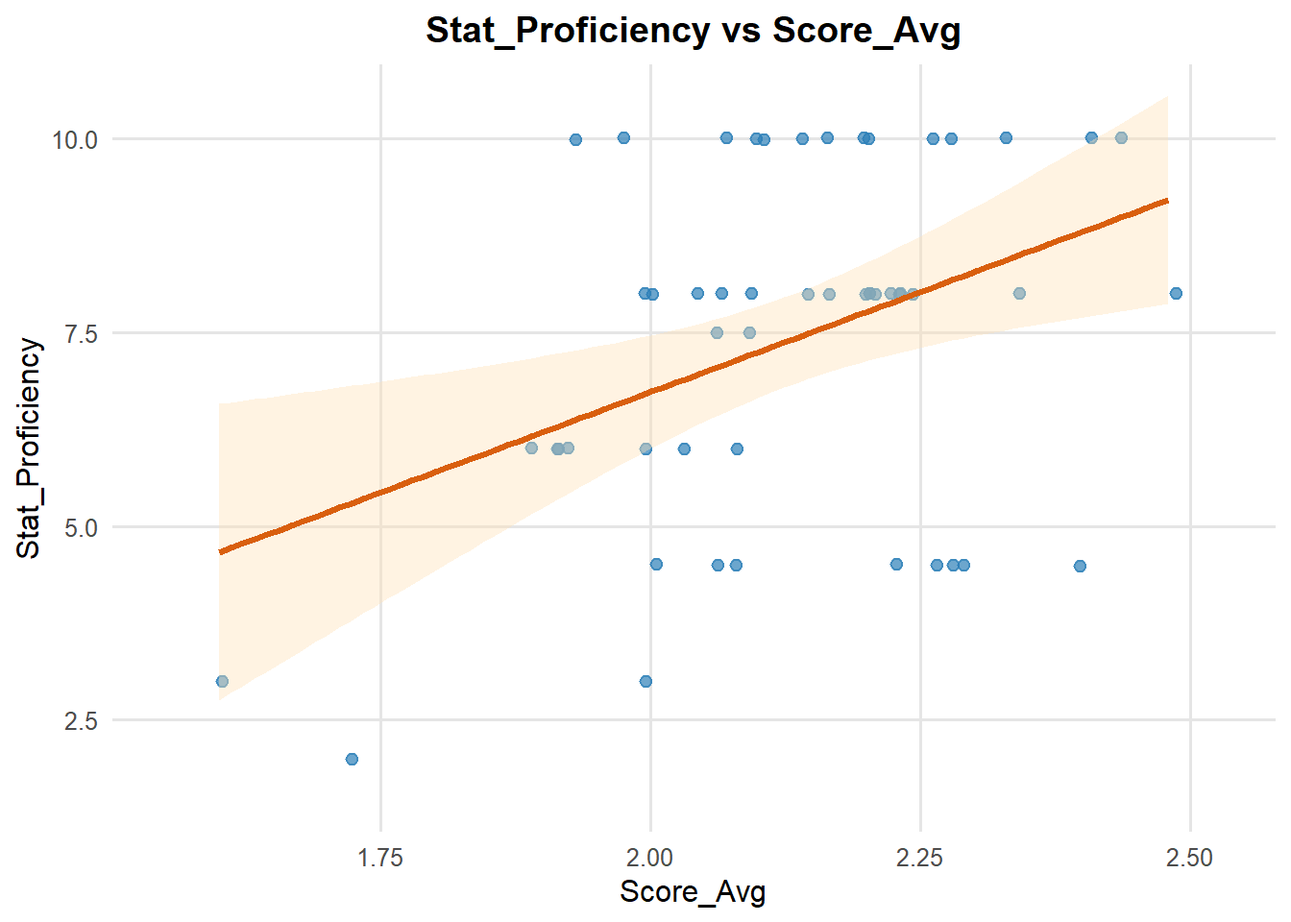
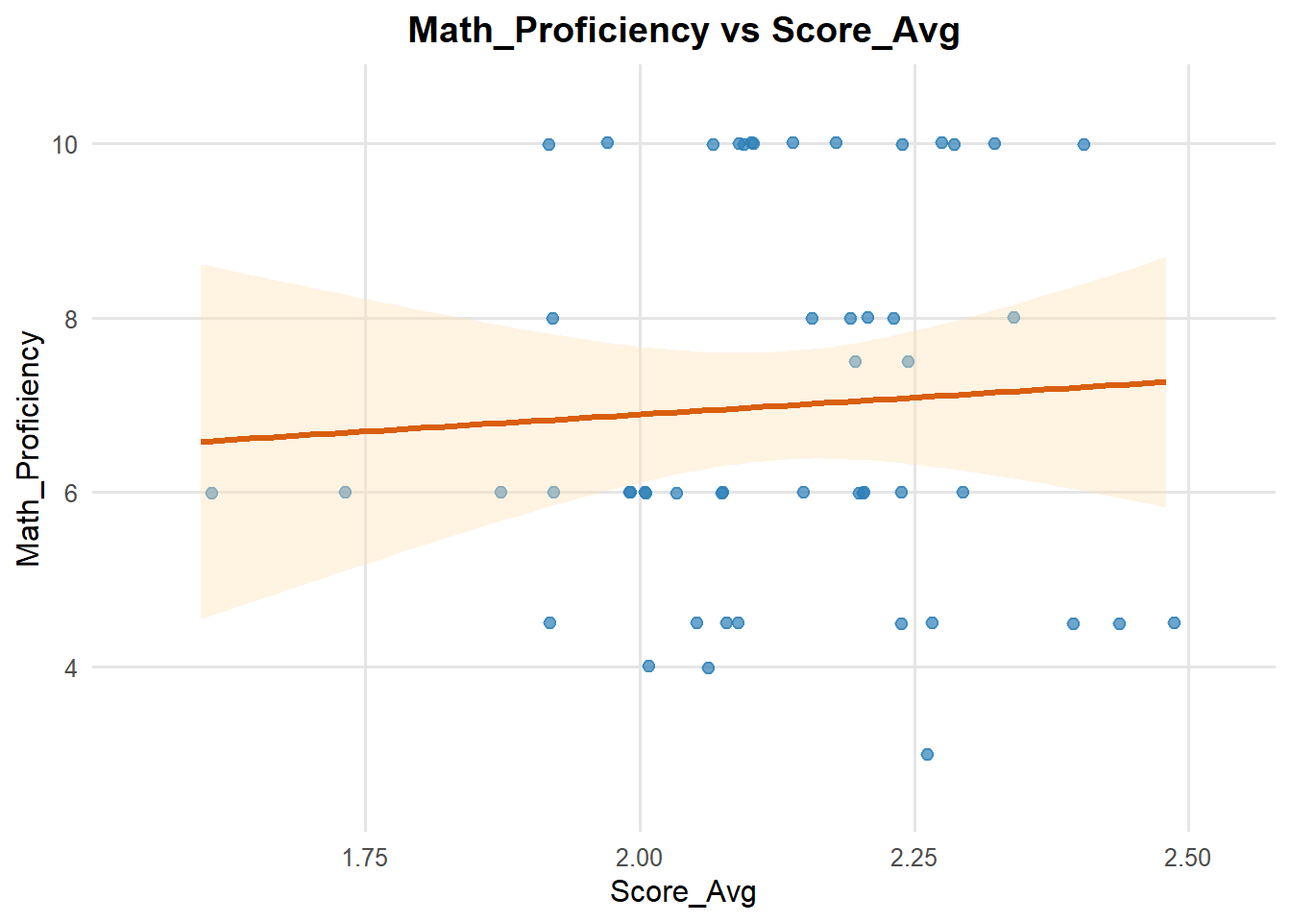
update the report, clean redundancy

diff --git a/results/report.html b/results/report.html
@@ -7,9 +7,13 @@
 <meta name="viewport" content="width=device-width, initial-scale=1.0, user-scalable=yes">
 
 <meta name="author" content="Jasper Luo">
-<meta name="dcterms.date" content="2025-10-14">
+<meta name="author" content="Jimmy Wu">
+<meta name="author" content="Ben Hurt">
+<meta name="author" content="Charles Yang">
+<meta name="author" content="Daixi Zhu">
+<meta name="dcterms.date" content="2025-10-19">
 
-<title>Analysis of class surveys</title>
+<title>Students’ Preparedness in Capstone: A Regression Analysis on the Class Survey</title>
 <style>
 code{white-space: pre-wrap;}
 span.smallcaps{font-variant: small-caps;}
@@ -110,7 +114,7 @@ window.Quarto = {
 
 <header id="title-block-header" class="quarto-title-block default">
 <div class="quarto-title">
-<h1 class="title">Analysis of class surveys</h1>
+<h1 class="title">Students’ Preparedness in Capstone: A Regression Analysis on the Class Survey</h1>
 <p class="subtitle lead">If you want a subtitle put it here</p>
 </div>
 
@@ -119,16 +123,20 @@ window.Quarto = {
 <div class="quarto-title-meta">
 
     <div>
-    <div class="quarto-title-meta-heading">Author</div>
+    <div class="quarto-title-meta-heading">Authors</div>
     <div class="quarto-title-meta-contents">
              <p>Jasper Luo </p>
+             <p>Jimmy Wu </p>
+             <p>Ben Hurt </p>
+             <p>Charles Yang </p>
+             <p>Daixi Zhu </p>
           </div>
   </div>
     
     <div>
     <div class="quarto-title-meta-heading">Updated</div>
     <div class="quarto-title-meta-contents">
-      <p class="date">October 14, 2025</p>
+      <p class="date">October 19, 2025</p>
     </div>
   </div>
   
@@ -140,14 +148,15 @@ window.Quarto = {
 </header>
 
 
-<p>Use this as a template. Keep the headers and remove all other text. Overall, your report may be quite short. When it is complete, render and then push changes to your team repository.</p>
 <section id="executive-summary" class="level2">
 <h2 class="anchored" data-anchor-id="executive-summary">Executive summary</h2>
-<p>Write a one-paragraph abstract summarizing what you did and your findings. It need not be comprehensive; try to highlight the most important or interesting outcomes.</p>
+<p>In this report, we aim to assess a student’s proficiency and specialization based on intake data for the 2025 UCSB PSTAT Capstone. This admission data includes prior coursework, domains of interest, and self-reported comfort levels in the following areas: Statistics, Programming, and Mathematics. We use this information in our report to create a scoring system for analysis. Our analysis reveals that comfort in these three areas has a positive correlation with proficiency, based on prior coursework/experience.</p>
 </section>
 <section id="data-description" class="level2">
 <h2 class="anchored" data-anchor-id="data-description">Data description</h2>
-<p>Write a brief description of the dataset. Your description should cover how data were obtained, sample characteristics, and measurements taken. It does not need to be exhaustive, but sufficiently detailed to convey a clear high-level understanding of the dataset. You can utilize bullet points or tables if you feel it would help improve clarity.</p>
+<p>Our data was obtained from the 2025 UCSB PSTAT Capstone admission/intake form. Within this form, students reported their self-reported comfort levels in statistics, programming, and mathematics. Students also reported the prior coursework they have taken in such areas and domain interests.</p>
+<p>Based on this information, we (the people working on this report) scored course difficulty from an integer scale of one to three. One represents beginner level, two represents intermediate level, and three represents advanced level. To be inclusive of a student’s self-reported comfort level, we also assigned the scores of one, one and a half, and two to respective comfort levels.</p>
+<p>Using this scoring system, we calculated each student’s proficiency by averaging the difficulty scores of their completed courses and multiplying by their comfort level score. This composite score ranges from one to ten, enabling a normalized analysis of estimated proficiency.</p>
 </section>
 <section id="questions-of-interest" class="level2">
 <h2 class="anchored" data-anchor-id="questions-of-interest">Questions of interest</h2>
@@ -198,9 +207,7 @@ Each domain’s proficiency index was computed as:</p>
 </section>
 <section id="question-3" class="level3">
 <h3 class="anchored" data-anchor-id="question-3">Question 3</h3>
-<p>Computing had a minimal or near-flat relationship, indicating that previous course preparation in this sample was mostly statistics-driven.</p>
-<p>Mathematics displayed a weaker but still positive trend, suggesting some shared foundation between math background and self-perceived ability.</p>
-<p>Statistics proficiency showed the strongest positive correlation with CPS; students who had taken more or harder statistics courses tended to report higher confidence and skill.</p>
+<p>We’ve plotted the regression plots and derived the regression models for each proficiency of interest in relation to the average score, specifically on programming, statistics, and math proficiency.</p>
 <div class="cell">
 <div class="cell-output-display">
 <div>
@@ -224,6 +231,9 @@ Each domain’s proficiency index was computed as:</p>
 </div>
 </div>
 </div>
+<p>Programming (Computing) proficiency and Mathematics proficiency shows a minimal positive or near-flat relationship to the average score, indicating that the help of previous course preparation in terms of programming and mathematics proficiency was mostly statistics-driven. Namely, according to the regression plot, although students with higher average scores tend to have slightly better programming and mathematics proficiency, it is hard to derive a solid conclusion that they have a positive relationship due to the data’s perceived nature of statistics.</p>
+<p>Statistics proficiency shows a very strong positive correlation with the average score. Namely, students who took more or harder statistics courses tend to report higher confidence and proficiency in statistics skills. This aligns with the realistic expectation that the more statistics courses a student took the more confident the student should be in a statistics program.</p>
+<p>We then proceed to examine the R-squared values for each model.</p>
 <div class="cell">
 <div class="cell-output-display">
 <div>
@@ -233,6 +243,9 @@ Each domain’s proficiency index was computed as:</p>
 </div>
 </div>
 </div>
+<p>The R-squared values further demonstrated our preliminary conclusion. Specifically, the average score value explains 0% of students’ proficiency in mathematics, aligning with our assumption that the slight positive trend in average score and mathematics proficiency is likely statistic-driven.</p>
+<p>However, the average score value does have relationships with students’ programming and statistics proficiency. It explains 3% of students’ programming proficiency and 16% of students’ statistics proficiency, remain consistent with our previous corresponding findings.</p>
+<p>We are also interested in how each skill affects the average score value, which is, namely, the regression coefficients of the models. We proceed to examine these coefficients with 95% confidence.</p>
 <div class="cell">
 <div class="cell-output-display">
 <div>
@@ -241,39 +254,171 @@ Each domain’s proficiency index was computed as:</p>
 </figure>
 </div>
 </div>
+</div>
+<p>Some insightful conclusion can be derived for each coefficients. Student’s mathematics proficiency appears to have a weak positive relationship with the average score value. However, since the 95% confidence interval crosses 0, the relationship between this coefficient and the response variable is weak and possibly not statistically significant. We cannot say with confidence that mathematics proficiency affects students’ average score.</p>
+<p>Students’ programming proficiency shows a moderately positive relationship with the average score value. This implies that students with higher programming proficiency might have higher average score value. However, again, since the 95% confidence interval crosses 0, the effect is not statistically significant at the 95% confidence level.</p>
+<p>Lastly, students’ statistics proficiency presents a strong positive relationship with the average score value. Namely, students with high statistics proficiency tend to have higher average score value. Since the confidence interval does not crosses 0, this result is statistically significant at the 95% confidence level.</p>
+<p>To further validate the statistical foundation of these results, we now check the linear models’ assumptions.</p>
+<div class="cell">
 <div class="cell-output-display">
 <div>
 <figure class="figure">
-<p><img src="report_files/figure-html/unnamed-chunk-8-2.png" class="img-fluid figure-img" width="672"></p>
+<p><img src="report_files/figure-html/unnamed-chunk-9-1.png" class="img-fluid figure-img" width="672"></p>
 </figure>
 </div>
 </div>
 </div>
-<p>Overall, students with stronger coursework backgrounds—especially in statistics—felt more capable and confident in their technical skills. This suggests that prior coursework preparation does contribute to perceived proficiency, though the strength of association varies by domain.</p>
+<p>According to the residuals vs fitted value plot, the smooth line is roughly fat, but there’s a slight curve and varying spread across fitted values. This suggest minor possibilities of non-linearity and unequal variance. Thus, the linearity and constant variance should be mostly fine by might be slightly violated.</p>
+<p>The scale-location plot better help us with examining the heteroscedasticity assumption. From the plot, the red line is mostly flat but with slight dips. The variance looks somehow uneven, suggesting that our constant variance assumption is likely violated.</p>
+<p>The points in the normal Q-Q plot follows the diagonal line, with very minor deviation at both tails. Although minor deviation from normality could exist, the entirety of the plot presents more evidence that suggest that the residuals of the model are normally distributed.</p>
+<p>The residuals vs leverage plot further examine if, in general, the model have influence problem. Since most points has low leverage and only one point around the leverage value of 0.15 is near the cook’s distance boundary (~0.5), the model does not have any severe influence problems and therefore the model is fairly stable.</p>
+<p>The diagnostic plots suggest the linear regression assumptions are <em>mostly reasonable</em>, though there is some mild non-linearity and potential heteroscedasticity. No major violations or influential outliers are apparent, so the model is acceptable but could be improved (for example, by transforming variables or adding polynomial terms).</p>
+<p>Overall, students with stronger coursework backgrounds, especially in statistics, felt more capable and confident in their technical skills related to the Capstone program. This suggests that prior coursework preparation does contribute to perceived proficiency, though the strength of association varies by domain.</p>
 </section>
 <section id="code-chunks" class="level3">
 <h3 class="anchored" data-anchor-id="code-chunks">Code chunks</h3>
-<p>Insert code chunks using the <em>Insert</em> drop-down menu or <code>ctrl + alt + I</code> . By default in this document, codes will not be shown but results will. If you want to change this behavior, add the chunk option <code>echo: true</code> as below.</p>
 <div class="cell">
-<div class="sourceCode cell-code" id="cb3"><pre class="sourceCode r code-with-copy"><code class="sourceCode r"><span id="cb3-1"><a href="#cb3-1" aria-hidden="true" tabindex="-1"></a><span class="co"># make sure columns are numeric</span></span></code><button title="Copy to Clipboard" class="code-copy-button"><i class="bi"></i></button></pre></div>
+<div class="sourceCode cell-code" id="cb3"><pre class="sourceCode r code-with-copy"><code class="sourceCode r"><span id="cb3-1"><a href="#cb3-1" aria-hidden="true" tabindex="-1"></a><span class="fu">library</span>(tidyverse)</span>
+<span id="cb3-2"><a href="#cb3-2" aria-hidden="true" tabindex="-1"></a><span class="fu">library</span>(readr)</span>
+<span id="cb3-3"><a href="#cb3-3" aria-hidden="true" tabindex="-1"></a><span class="fu">library</span>(ggplot2)</span>
+<span id="cb3-4"><a href="#cb3-4" aria-hidden="true" tabindex="-1"></a><span class="fu">library</span>(broom)</span>
+<span id="cb3-5"><a href="#cb3-5" aria-hidden="true" tabindex="-1"></a><span class="fu">library</span>(dplyr)</span>
+<span id="cb3-6"><a href="#cb3-6" aria-hidden="true" tabindex="-1"></a><span class="fu">library</span>(knitr)</span></code><button title="Copy to Clipboard" class="code-copy-button"><i class="bi"></i></button></pre></div>
 </div>
 <div class="cell">
-<div class="sourceCode cell-code" id="cb4"><pre class="sourceCode r code-with-copy"><code class="sourceCode r"><span id="cb4-1"><a href="#cb4-1" aria-hidden="true" tabindex="-1"></a><span class="co"># Plots with fitted line</span></span></code><button title="Copy to Clipboard" class="code-copy-button"><i class="bi"></i></button></pre></div>
+<div class="sourceCode cell-code" id="cb4"><pre class="sourceCode r code-with-copy"><code class="sourceCode r"><span id="cb4-1"><a href="#cb4-1" aria-hidden="true" tabindex="-1"></a><span class="co"># setwd will work only at the working environment of the person who wrote this</span></span>
+<span id="cb4-2"><a href="#cb4-2" aria-hidden="true" tabindex="-1"></a><span class="fu">setwd</span>(<span class="st">"D:/UCSB/Class/F25/PSTAT197A/module-0-class-survey-data-table-12/data"</span>)</span>
+<span id="cb4-3"><a href="#cb4-3" aria-hidden="true" tabindex="-1"></a>csv_path <span class="ot">&lt;-</span> <span class="st">"PSTAT197A_ Standardized_Proficiency_Score.csv"</span></span>
+<span id="cb4-4"><a href="#cb4-4" aria-hidden="true" tabindex="-1"></a>df <span class="ot">&lt;-</span> <span class="fu">read_csv</span>(csv_path, <span class="at">show_col_types =</span> <span class="cn">FALSE</span>)</span>
+<span id="cb4-5"><a href="#cb4-5" aria-hidden="true" tabindex="-1"></a></span>
+<span id="cb4-6"><a href="#cb4-6" aria-hidden="true" tabindex="-1"></a><span class="co"># Basic summaries</span></span>
+<span id="cb4-7"><a href="#cb4-7" aria-hidden="true" tabindex="-1"></a><span class="fu">summary</span>(df<span class="sc">$</span>Score_Avg)</span>
+<span id="cb4-8"><a href="#cb4-8" aria-hidden="true" tabindex="-1"></a></span>
+<span id="cb4-9"><a href="#cb4-9" aria-hidden="true" tabindex="-1"></a><span class="fu">summary</span>(df[, <span class="fu">c</span>(<span class="st">"Math_Proficiency"</span>, <span class="st">"Prog_Proficiency"</span>, <span class="st">"Stat_Proficiency"</span>)]) </span></code><button title="Copy to Clipboard" class="code-copy-button"><i class="bi"></i></button></pre></div>
 </div>
-<p>Code chunks will be executed in order when the document is rendered, so packages should be loaded at the very beginning of the document</p>
-</section>
-<section id="rendering-tables-in-markdown" class="level3">
-<h3 class="anchored" data-anchor-id="rendering-tables-in-markdown">Rendering tables in markdown</h3>
-<p>Several functions exist for converting dataframes to markdown tables for nice display. A simple one from the <code>knitr</code> package is <code>knitr::kable()</code> .</p>
-</section>
-<section id="figures" class="level3">
-<h3 class="anchored" data-anchor-id="figures">Figures</h3>
-<p>To include any figures not generated by code chunks, use <em>Insert &gt; Figure / Image</em> or <code>![CAPTION](path/file.ext)</code> .</p>
-<p>Most of the time code chunks producing plots will render fine. However, to adjust sizing or alignment, use the chunk options <code>fig-width</code> and <code>fig-height</code> . Captions can be added with <code>fig-cap</code> .</p>
-</section>
-<section id="links" class="level3">
-<h3 class="anchored" data-anchor-id="links">Links</h3>
-<p>To include any hyperlinks, use <code>[display text](url)</code> .</p>
+<div class="cell">
+<div class="sourceCode cell-code" id="cb5"><pre class="sourceCode r code-with-copy"><code class="sourceCode r"><span id="cb5-1"><a href="#cb5-1" aria-hidden="true" tabindex="-1"></a>df <span class="ot">&lt;-</span> df <span class="sc">%&gt;%</span></span>
+<span id="cb5-2"><a href="#cb5-2" aria-hidden="true" tabindex="-1"></a>  <span class="fu">mutate</span>(</span>
+<span id="cb5-3"><a href="#cb5-3" aria-hidden="true" tabindex="-1"></a>    <span class="at">Score_Avg        =</span> <span class="fu">as.numeric</span>(Score_Avg),</span>
+<span id="cb5-4"><a href="#cb5-4" aria-hidden="true" tabindex="-1"></a>    <span class="at">Prog_Proficiency =</span> <span class="fu">as.numeric</span>(Prog_Proficiency),</span>
+<span id="cb5-5"><a href="#cb5-5" aria-hidden="true" tabindex="-1"></a>    <span class="at">Stat_Proficiency =</span> <span class="fu">as.numeric</span>(Stat_Proficiency),</span>
+<span id="cb5-6"><a href="#cb5-6" aria-hidden="true" tabindex="-1"></a>    <span class="at">Math_Proficiency =</span> <span class="fu">as.numeric</span>(Math_Proficiency)</span>
+<span id="cb5-7"><a href="#cb5-7" aria-hidden="true" tabindex="-1"></a>  ) </span>
+<span id="cb5-8"><a href="#cb5-8" aria-hidden="true" tabindex="-1"></a></span>
+<span id="cb5-9"><a href="#cb5-9" aria-hidden="true" tabindex="-1"></a><span class="co"># define pairs and fit models</span></span>
+<span id="cb5-10"><a href="#cb5-10" aria-hidden="true" tabindex="-1"></a>pairs <span class="ot">&lt;-</span> <span class="fu">tribble</span>(</span>
+<span id="cb5-11"><a href="#cb5-11" aria-hidden="true" tabindex="-1"></a>  <span class="sc">~</span>y,                  <span class="sc">~</span>x,</span>
+<span id="cb5-12"><a href="#cb5-12" aria-hidden="true" tabindex="-1"></a>  <span class="st">"Prog_Proficiency"</span>,  <span class="st">"Score_Avg"</span>,</span>
+<span id="cb5-13"><a href="#cb5-13" aria-hidden="true" tabindex="-1"></a>  <span class="st">"Stat_Proficiency"</span>,  <span class="st">"Score_Avg"</span>,</span>
+<span id="cb5-14"><a href="#cb5-14" aria-hidden="true" tabindex="-1"></a>  <span class="st">"Math_Proficiency"</span>,  <span class="st">"Score_Avg"</span></span>
+<span id="cb5-15"><a href="#cb5-15" aria-hidden="true" tabindex="-1"></a>)</span>
+<span id="cb5-16"><a href="#cb5-16" aria-hidden="true" tabindex="-1"></a></span>
+<span id="cb5-17"><a href="#cb5-17" aria-hidden="true" tabindex="-1"></a>fit_1 <span class="ot">&lt;-</span> <span class="cf">function</span>(y, x, data) {</span>
+<span id="cb5-18"><a href="#cb5-18" aria-hidden="true" tabindex="-1"></a>  sub <span class="ot">&lt;-</span> data <span class="sc">%&gt;%</span> <span class="fu">select</span>(<span class="fu">all_of</span>(<span class="fu">c</span>(y, x))) <span class="sc">%&gt;%</span> <span class="fu">drop_na</span>()</span>
+<span id="cb5-19"><a href="#cb5-19" aria-hidden="true" tabindex="-1"></a>  m   <span class="ot">&lt;-</span> <span class="fu">lm</span>(<span class="fu">reformulate</span>(x, y), <span class="at">data =</span> sub)</span>
+<span id="cb5-20"><a href="#cb5-20" aria-hidden="true" tabindex="-1"></a>  <span class="fu">list</span>(</span>
+<span id="cb5-21"><a href="#cb5-21" aria-hidden="true" tabindex="-1"></a>    <span class="at">glance =</span> <span class="fu">glance</span>(m) <span class="sc">%&gt;%</span> <span class="fu">mutate</span>(<span class="at">y =</span> y, <span class="at">x =</span> x, <span class="at">n =</span> <span class="fu">nobs</span>(m)),</span>
+<span id="cb5-22"><a href="#cb5-22" aria-hidden="true" tabindex="-1"></a>    <span class="at">tidy   =</span> <span class="fu">tidy</span>(m)   <span class="sc">%&gt;%</span> <span class="fu">mutate</span>(<span class="at">y =</span> y, <span class="at">x =</span> x),</span>
+<span id="cb5-23"><a href="#cb5-23" aria-hidden="true" tabindex="-1"></a>    <span class="at">model  =</span> m,</span>
+<span id="cb5-24"><a href="#cb5-24" aria-hidden="true" tabindex="-1"></a>    <span class="at">data   =</span> sub</span>
+<span id="cb5-25"><a href="#cb5-25" aria-hidden="true" tabindex="-1"></a>  )</span>
+<span id="cb5-26"><a href="#cb5-26" aria-hidden="true" tabindex="-1"></a>}</span>
+<span id="cb5-27"><a href="#cb5-27" aria-hidden="true" tabindex="-1"></a></span>
+<span id="cb5-28"><a href="#cb5-28" aria-hidden="true" tabindex="-1"></a>fits <span class="ot">&lt;-</span> pairs <span class="sc">%&gt;%</span></span>
+<span id="cb5-29"><a href="#cb5-29" aria-hidden="true" tabindex="-1"></a>  <span class="fu">pmap</span>(fit_1, <span class="at">data =</span> df)</span></code><button title="Copy to Clipboard" class="code-copy-button"><i class="bi"></i></button></pre></div>
+</div>
+<div class="cell">
+<div class="sourceCode cell-code" id="cb6"><pre class="sourceCode r code-with-copy"><code class="sourceCode r"><span id="cb6-1"><a href="#cb6-1" aria-hidden="true" tabindex="-1"></a>plot_one <span class="ot">&lt;-</span> <span class="cf">function</span>(y, x, data) {</span>
+<span id="cb6-2"><a href="#cb6-2" aria-hidden="true" tabindex="-1"></a>  rngx <span class="ot">&lt;-</span> <span class="fu">range</span>(data[[x]], <span class="at">na.rm =</span> <span class="cn">TRUE</span>) <span class="sc">+</span> <span class="fu">c</span>(<span class="sc">-</span><span class="fl">0.05</span>, <span class="fl">0.05</span>)</span>
+<span id="cb6-3"><a href="#cb6-3" aria-hidden="true" tabindex="-1"></a>  rngy <span class="ot">&lt;-</span> <span class="fu">range</span>(data[[y]], <span class="at">na.rm =</span> <span class="cn">TRUE</span>) <span class="sc">+</span> <span class="fu">c</span>(<span class="sc">-</span><span class="fl">0.5</span>, <span class="fl">0.5</span>)</span>
+<span id="cb6-4"><a href="#cb6-4" aria-hidden="true" tabindex="-1"></a>  </span>
+<span id="cb6-5"><a href="#cb6-5" aria-hidden="true" tabindex="-1"></a>  <span class="fu">ggplot</span>(data, <span class="fu">aes</span>(<span class="at">x =</span> .data[[x]], <span class="at">y =</span> .data[[y]])) <span class="sc">+</span></span>
+<span id="cb6-6"><a href="#cb6-6" aria-hidden="true" tabindex="-1"></a>    <span class="fu">geom_point</span>(</span>
+<span id="cb6-7"><a href="#cb6-7" aria-hidden="true" tabindex="-1"></a>      <span class="at">alpha =</span> <span class="fl">0.7</span>,</span>
+<span id="cb6-8"><a href="#cb6-8" aria-hidden="true" tabindex="-1"></a>      <span class="at">size =</span> <span class="dv">2</span>,</span>
+<span id="cb6-9"><a href="#cb6-9" aria-hidden="true" tabindex="-1"></a>      <span class="at">color =</span> <span class="st">"#2C7FB8"</span>,</span>
+<span id="cb6-10"><a href="#cb6-10" aria-hidden="true" tabindex="-1"></a>      <span class="at">position =</span> <span class="fu">position_jitter</span>(<span class="at">width =</span> <span class="fl">0.01</span>, <span class="at">height =</span> <span class="fl">0.01</span>)</span>
+<span id="cb6-11"><a href="#cb6-11" aria-hidden="true" tabindex="-1"></a>    ) <span class="sc">+</span></span>
+<span id="cb6-12"><a href="#cb6-12" aria-hidden="true" tabindex="-1"></a>    <span class="fu">geom_smooth</span>(</span>
+<span id="cb6-13"><a href="#cb6-13" aria-hidden="true" tabindex="-1"></a>      <span class="at">method =</span> <span class="st">"lm"</span>,</span>
+<span id="cb6-14"><a href="#cb6-14" aria-hidden="true" tabindex="-1"></a>      <span class="at">se =</span> <span class="cn">TRUE</span>,</span>
+<span id="cb6-15"><a href="#cb6-15" aria-hidden="true" tabindex="-1"></a>      <span class="at">color =</span> <span class="st">"#D95F0E"</span>,</span>
+<span id="cb6-16"><a href="#cb6-16" aria-hidden="true" tabindex="-1"></a>      <span class="at">fill =</span> <span class="st">"#FEE0B6"</span> </span>
+<span id="cb6-17"><a href="#cb6-17" aria-hidden="true" tabindex="-1"></a>    ) <span class="sc">+</span></span>
+<span id="cb6-18"><a href="#cb6-18" aria-hidden="true" tabindex="-1"></a>    <span class="fu">coord_cartesian</span>(<span class="at">xlim =</span> rngx, <span class="at">ylim =</span> rngy) <span class="sc">+</span></span>
+<span id="cb6-19"><a href="#cb6-19" aria-hidden="true" tabindex="-1"></a>    <span class="fu">labs</span>(</span>
+<span id="cb6-20"><a href="#cb6-20" aria-hidden="true" tabindex="-1"></a>      <span class="at">title =</span> <span class="fu">paste</span>(y, <span class="st">"vs"</span>, x),</span>
+<span id="cb6-21"><a href="#cb6-21" aria-hidden="true" tabindex="-1"></a>      <span class="at">x =</span> x,</span>
+<span id="cb6-22"><a href="#cb6-22" aria-hidden="true" tabindex="-1"></a>      <span class="at">y =</span> y</span>
+<span id="cb6-23"><a href="#cb6-23" aria-hidden="true" tabindex="-1"></a>    ) <span class="sc">+</span></span>
+<span id="cb6-24"><a href="#cb6-24" aria-hidden="true" tabindex="-1"></a>    <span class="fu">theme_minimal</span>(<span class="at">base_size =</span> <span class="dv">12</span>) <span class="sc">+</span></span>
+<span id="cb6-25"><a href="#cb6-25" aria-hidden="true" tabindex="-1"></a>    <span class="fu">theme</span>(</span>
+<span id="cb6-26"><a href="#cb6-26" aria-hidden="true" tabindex="-1"></a>      <span class="at">plot.title =</span> <span class="fu">element_text</span>(<span class="at">face =</span> <span class="st">"bold"</span>, <span class="at">hjust =</span> <span class="fl">0.5</span>),</span>
+<span id="cb6-27"><a href="#cb6-27" aria-hidden="true" tabindex="-1"></a>      <span class="at">panel.grid.minor =</span> <span class="fu">element_blank</span>(),</span>
+<span id="cb6-28"><a href="#cb6-28" aria-hidden="true" tabindex="-1"></a>      <span class="at">panel.grid.major =</span> <span class="fu">element_line</span>(<span class="at">color =</span> <span class="st">"grey90"</span>)</span>
+<span id="cb6-29"><a href="#cb6-29" aria-hidden="true" tabindex="-1"></a>    )</span>
+<span id="cb6-30"><a href="#cb6-30" aria-hidden="true" tabindex="-1"></a>}</span>
+<span id="cb6-31"><a href="#cb6-31" aria-hidden="true" tabindex="-1"></a></span>
+<span id="cb6-32"><a href="#cb6-32" aria-hidden="true" tabindex="-1"></a>plots <span class="ot">&lt;-</span> <span class="fu">pmap</span>(</span>
+<span id="cb6-33"><a href="#cb6-33" aria-hidden="true" tabindex="-1"></a>  pairs,</span>
+<span id="cb6-34"><a href="#cb6-34" aria-hidden="true" tabindex="-1"></a>  \(y, x) <span class="fu">plot_one</span>(y, x, df <span class="sc">%&gt;%</span> <span class="fu">select</span>(<span class="fu">all_of</span>(<span class="fu">c</span>(y, x))) <span class="sc">%&gt;%</span> <span class="fu">drop_na</span>())</span>
+<span id="cb6-35"><a href="#cb6-35" aria-hidden="true" tabindex="-1"></a>)</span>
+<span id="cb6-36"><a href="#cb6-36" aria-hidden="true" tabindex="-1"></a></span>
+<span id="cb6-37"><a href="#cb6-37" aria-hidden="true" tabindex="-1"></a>plots[[<span class="dv">1</span>]]</span></code><button title="Copy to Clipboard" class="code-copy-button"><i class="bi"></i></button></pre></div>
+<div class="sourceCode cell-code" id="cb7"><pre class="sourceCode r code-with-copy"><code class="sourceCode r"><span id="cb7-1"><a href="#cb7-1" aria-hidden="true" tabindex="-1"></a>plots[[<span class="dv">3</span>]]</span></code><button title="Copy to Clipboard" class="code-copy-button"><i class="bi"></i></button></pre></div>
+<div class="sourceCode cell-code" id="cb8"><pre class="sourceCode r code-with-copy"><code class="sourceCode r"><span id="cb8-1"><a href="#cb8-1" aria-hidden="true" tabindex="-1"></a>plots[[<span class="dv">2</span>]]</span></code><button title="Copy to Clipboard" class="code-copy-button"><i class="bi"></i></button></pre></div>
+</div>
+<div class="cell">
+<div class="sourceCode cell-code" id="cb9"><pre class="sourceCode r code-with-copy"><code class="sourceCode r"><span id="cb9-1"><a href="#cb9-1" aria-hidden="true" tabindex="-1"></a><span class="co"># Build regression models</span></span>
+<span id="cb9-2"><a href="#cb9-2" aria-hidden="true" tabindex="-1"></a>model_math <span class="ot">&lt;-</span> <span class="fu">lm</span>(Math_Proficiency <span class="sc">~</span> Score_Avg, <span class="at">data =</span> df)</span>
+<span id="cb9-3"><a href="#cb9-3" aria-hidden="true" tabindex="-1"></a>model_prog <span class="ot">&lt;-</span> <span class="fu">lm</span>(Prog_Proficiency <span class="sc">~</span> Score_Avg, <span class="at">data =</span> df)</span>
+<span id="cb9-4"><a href="#cb9-4" aria-hidden="true" tabindex="-1"></a>model_stat <span class="ot">&lt;-</span> <span class="fu">lm</span>(Stat_Proficiency <span class="sc">~</span> Score_Avg, <span class="at">data =</span> df)</span>
+<span id="cb9-5"><a href="#cb9-5" aria-hidden="true" tabindex="-1"></a></span>
+<span id="cb9-6"><a href="#cb9-6" aria-hidden="true" tabindex="-1"></a><span class="co"># Extract R²</span></span>
+<span id="cb9-7"><a href="#cb9-7" aria-hidden="true" tabindex="-1"></a>r2_values <span class="ot">&lt;-</span> <span class="fu">data.frame</span>(</span>
+<span id="cb9-8"><a href="#cb9-8" aria-hidden="true" tabindex="-1"></a>  <span class="at">Skill =</span> <span class="fu">c</span>(<span class="st">"Math"</span>, <span class="st">"Programming"</span>, <span class="st">"Statistics"</span>),</span>
+<span id="cb9-9"><a href="#cb9-9" aria-hidden="true" tabindex="-1"></a>  <span class="at">R2 =</span> <span class="fu">c</span>(<span class="fu">summary</span>(model_math)<span class="sc">$</span>r.squared,</span>
+<span id="cb9-10"><a href="#cb9-10" aria-hidden="true" tabindex="-1"></a>         <span class="fu">summary</span>(model_prog)<span class="sc">$</span>r.squared,</span>
+<span id="cb9-11"><a href="#cb9-11" aria-hidden="true" tabindex="-1"></a>         <span class="fu">summary</span>(model_stat)<span class="sc">$</span>r.squared)</span>
+<span id="cb9-12"><a href="#cb9-12" aria-hidden="true" tabindex="-1"></a>)</span>
+<span id="cb9-13"><a href="#cb9-13" aria-hidden="true" tabindex="-1"></a></span>
+<span id="cb9-14"><a href="#cb9-14" aria-hidden="true" tabindex="-1"></a><span class="co"># Bar chart</span></span>
+<span id="cb9-15"><a href="#cb9-15" aria-hidden="true" tabindex="-1"></a><span class="fu">ggplot</span>(r2_values, <span class="fu">aes</span>(<span class="at">x =</span> Skill, <span class="at">y =</span> R2)) <span class="sc">+</span></span>
+<span id="cb9-16"><a href="#cb9-16" aria-hidden="true" tabindex="-1"></a>  <span class="fu">geom_col</span>(<span class="at">fill =</span> <span class="st">"steelblue"</span>) <span class="sc">+</span></span>
+<span id="cb9-17"><a href="#cb9-17" aria-hidden="true" tabindex="-1"></a>  <span class="fu">geom_text</span>(<span class="fu">aes</span>(<span class="at">label =</span> <span class="fu">round</span>(R2, <span class="dv">2</span>)), <span class="at">vjust =</span> <span class="sc">-</span><span class="fl">0.5</span>) <span class="sc">+</span></span>
+<span id="cb9-18"><a href="#cb9-18" aria-hidden="true" tabindex="-1"></a>  <span class="fu">labs</span>(<span class="at">title =</span> <span class="st">"R²: How Much Score_Avg Explains Each Skill"</span>,</span>
+<span id="cb9-19"><a href="#cb9-19" aria-hidden="true" tabindex="-1"></a>       <span class="at">x =</span> <span class="cn">NULL</span>, <span class="at">y =</span> <span class="st">"R² Value"</span>) <span class="sc">+</span></span>
+<span id="cb9-20"><a href="#cb9-20" aria-hidden="true" tabindex="-1"></a>  <span class="fu">ylim</span>(<span class="dv">0</span>, <span class="dv">1</span>) <span class="sc">+</span></span>
+<span id="cb9-21"><a href="#cb9-21" aria-hidden="true" tabindex="-1"></a>  <span class="fu">theme_minimal</span>()</span></code><button title="Copy to Clipboard" class="code-copy-button"><i class="bi"></i></button></pre></div>
+</div>
+<div class="cell">
+<div class="sourceCode cell-code" id="cb10"><pre class="sourceCode r code-with-copy"><code class="sourceCode r"><span id="cb10-1"><a href="#cb10-1" aria-hidden="true" tabindex="-1"></a>model_math <span class="ot">&lt;-</span> <span class="fu">lm</span>(Math_Proficiency <span class="sc">~</span> Score_Avg, <span class="at">data =</span> df)</span>
+<span id="cb10-2"><a href="#cb10-2" aria-hidden="true" tabindex="-1"></a>model_prog <span class="ot">&lt;-</span> <span class="fu">lm</span>(Prog_Proficiency <span class="sc">~</span> Score_Avg, <span class="at">data =</span> df)</span>
+<span id="cb10-3"><a href="#cb10-3" aria-hidden="true" tabindex="-1"></a>model_stat <span class="ot">&lt;-</span> <span class="fu">lm</span>(Stat_Proficiency <span class="sc">~</span> Score_Avg, <span class="at">data =</span> df)</span>
+<span id="cb10-4"><a href="#cb10-4" aria-hidden="true" tabindex="-1"></a></span>
+<span id="cb10-5"><a href="#cb10-5" aria-hidden="true" tabindex="-1"></a><span class="co"># Extract coefficients and standard errors</span></span>
+<span id="cb10-6"><a href="#cb10-6" aria-hidden="true" tabindex="-1"></a>coef_data <span class="ot">&lt;-</span> <span class="fu">tibble</span>(</span>
+<span id="cb10-7"><a href="#cb10-7" aria-hidden="true" tabindex="-1"></a>  <span class="at">Skill =</span> <span class="fu">c</span>(<span class="st">"Math"</span>, <span class="st">"Programming"</span>, <span class="st">"Statistics"</span>),</span>
+<span id="cb10-8"><a href="#cb10-8" aria-hidden="true" tabindex="-1"></a>  <span class="at">Coef =</span> <span class="fu">c</span>(<span class="fu">coef</span>(model_math)[<span class="dv">2</span>], <span class="fu">coef</span>(model_prog)[<span class="dv">2</span>], <span class="fu">coef</span>(model_stat)[<span class="dv">2</span>]),</span>
+<span id="cb10-9"><a href="#cb10-9" aria-hidden="true" tabindex="-1"></a>  <span class="at">SE =</span> <span class="fu">c</span>(<span class="fu">tidy</span>(model_math)<span class="sc">$</span>std.error[<span class="dv">2</span>],</span>
+<span id="cb10-10"><a href="#cb10-10" aria-hidden="true" tabindex="-1"></a>         <span class="fu">tidy</span>(model_prog)<span class="sc">$</span>std.error[<span class="dv">2</span>],</span>
+<span id="cb10-11"><a href="#cb10-11" aria-hidden="true" tabindex="-1"></a>         <span class="fu">tidy</span>(model_stat)<span class="sc">$</span>std.error[<span class="dv">2</span>])</span>
+<span id="cb10-12"><a href="#cb10-12" aria-hidden="true" tabindex="-1"></a>)</span>
+<span id="cb10-13"><a href="#cb10-13" aria-hidden="true" tabindex="-1"></a></span>
+<span id="cb10-14"><a href="#cb10-14" aria-hidden="true" tabindex="-1"></a><span class="co"># Plot with error bars</span></span>
+<span id="cb10-15"><a href="#cb10-15" aria-hidden="true" tabindex="-1"></a><span class="fu">ggplot</span>(coef_data, <span class="fu">aes</span>(<span class="at">x =</span> Skill, <span class="at">y =</span> Coef)) <span class="sc">+</span></span>
+<span id="cb10-16"><a href="#cb10-16" aria-hidden="true" tabindex="-1"></a>  <span class="fu">geom_col</span>(<span class="at">fill =</span> <span class="st">"darkorange"</span>) <span class="sc">+</span></span>
+<span id="cb10-17"><a href="#cb10-17" aria-hidden="true" tabindex="-1"></a>  <span class="fu">geom_errorbar</span>(<span class="fu">aes</span>(<span class="at">ymin =</span> Coef <span class="sc">-</span> <span class="fl">1.96</span> <span class="sc">*</span> SE, <span class="at">ymax =</span> Coef <span class="sc">+</span> <span class="fl">1.96</span> <span class="sc">*</span> SE), <span class="at">width =</span> <span class="fl">0.2</span>) <span class="sc">+</span></span>
+<span id="cb10-18"><a href="#cb10-18" aria-hidden="true" tabindex="-1"></a>  <span class="fu">labs</span>(</span>
+<span id="cb10-19"><a href="#cb10-19" aria-hidden="true" tabindex="-1"></a>    <span class="at">title =</span> <span class="st">"Effect of Score_Avg on Each Skill (with 95% CI)"</span>,</span>
+<span id="cb10-20"><a href="#cb10-20" aria-hidden="true" tabindex="-1"></a>    <span class="at">y =</span> <span class="st">"Regression Coefficient (Slope)"</span>,</span>
+<span id="cb10-21"><a href="#cb10-21" aria-hidden="true" tabindex="-1"></a>    <span class="at">x =</span> <span class="cn">NULL</span></span>
+<span id="cb10-22"><a href="#cb10-22" aria-hidden="true" tabindex="-1"></a>  ) <span class="sc">+</span></span>
+<span id="cb10-23"><a href="#cb10-23" aria-hidden="true" tabindex="-1"></a>  <span class="fu">theme_minimal</span>()</span></code><button title="Copy to Clipboard" class="code-copy-button"><i class="bi"></i></button></pre></div>
+<div class="sourceCode cell-code" id="cb11"><pre class="sourceCode r code-with-copy"><code class="sourceCode r"><span id="cb11-1"><a href="#cb11-1" aria-hidden="true" tabindex="-1"></a><span class="co"># Check residuals for statistics model</span></span>
+<span id="cb11-2"><a href="#cb11-2" aria-hidden="true" tabindex="-1"></a><span class="fu">par</span>(<span class="at">mfrow =</span> <span class="fu">c</span>(<span class="dv">2</span>,<span class="dv">2</span>))</span>
+<span id="cb11-3"><a href="#cb11-3" aria-hidden="true" tabindex="-1"></a><span class="fu">plot</span>(model_stat)</span></code><button title="Copy to Clipboard" class="code-copy-button"><i class="bi"></i></button></pre></div>
+</div>
 </section>
 </section>
 
